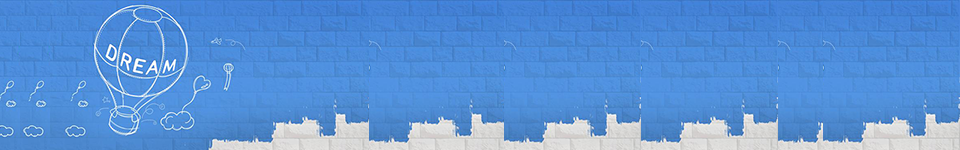
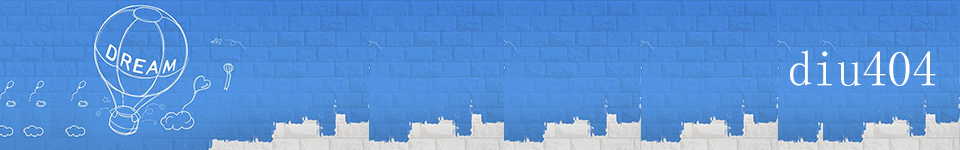
初始化测试

Changed region(s): [[0.8125, 0.3467, 0.9688, 0.5867], [0.8125, 0.3467, 0.875, 0.3733]]

diff --git a/blog/test.html b/blog/test.html
@@ -1076,8 +1076,7 @@ body .markdown-body
 .highlight .vi{color:teal}
 .highlight .il{color:#009999}
 .highlight .gc{color:#999;background-color:#EAF2F5}
-</style><title>test</title></head><body><article class="markdown-body"><p><a href="../index.html">&lt;返回</a>
-<img alt="" src="../images/banner.png" title="测试图片" /></p>
+</style><title>test</title></head><body><article class="markdown-body"><p><a href="https://diu404.github.io"><img alt="" src="../images/banner.png" title="首页" /></a></p>
 <h4 id="_1">这是标题<a class="headerlink" href="#_1" title="Permanent link"></a></h4>
 <ol>
 <li>这是标签1<ul>

diff --git a/index.html b/index.html
@@ -1076,9 +1076,7 @@ body .markdown-body
 .highlight .vi{color:teal}
 .highlight .il{color:#009999}
 .highlight .gc{color:#999;background-color:#EAF2F5}
-</style><title>index</title></head><body><article class="markdown-body"><h3 style="text-align: center">diu404</h3>
-
-<p><img alt="" src="images/banner.png" title="测试图片" /></p>
+</style><title>index</title></head><body><article class="markdown-body"><p><a href="https://diu404.github.io"><img alt="diu404" src="images/banner.png" title="diu404" /></a></p>
 <hr />
 <ol>
 <li><a href="blog/test.html">测试链接</a>.</li>

diff --git a/index.md b/index.md
@@ -1,4 +1,3 @@
-<h3 style="text-align: center">diu404</h3>
-![](images/banner.png "测试图片")
+[![diu404](images/banner.png "diu404")](https://diu404.github.io)
 ***
 1. [测试链接](blog/test.html).

diff --git a/blog/test.md b/blog/test.md
@@ -1,5 +1,4 @@
-[<返回](../index.html)
-![](../images/banner.png "测试图片")
+[![](../images/banner.png "首页")](https://diu404.github.io)
 
 #### 这是标题
 1. 这是标签1
